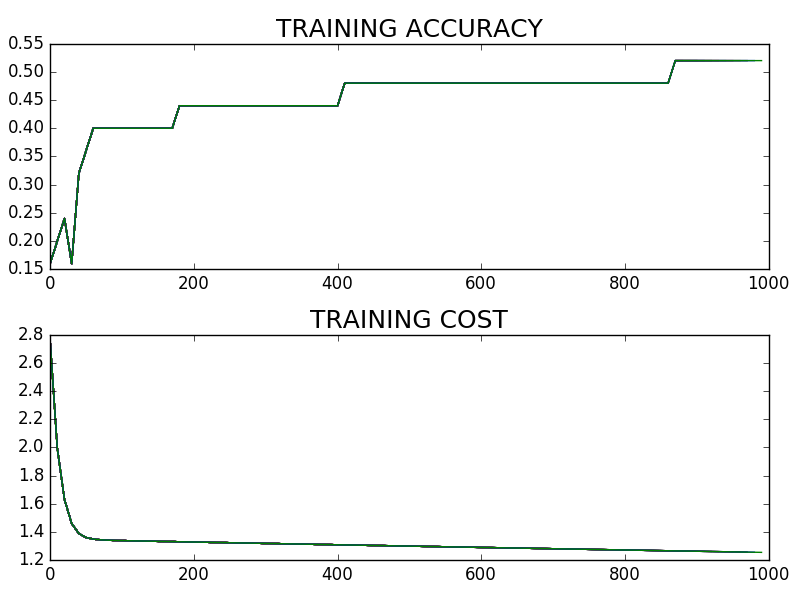
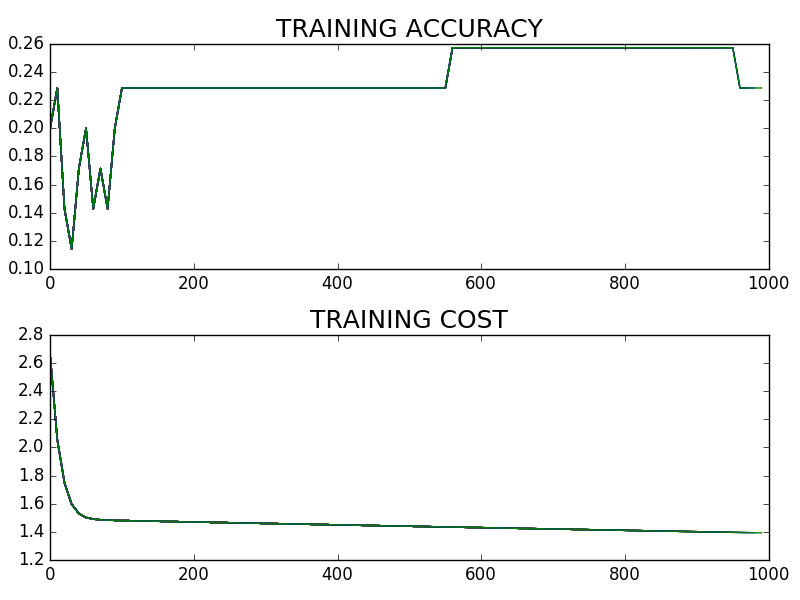
acc:28.5 trainAcc:22.8

diff --git a/tensorflow/new_build.py b/tensorflow/new_build.py
@@ -21,7 +21,8 @@ class DocReader():
         stop = stopwords.words("english")
         # regex = re.compile("\w+")
         for filePath in filePaths:
-            print filePath
+            # print filePath
+            print '.',
             with open(filePath) as f:
                 raw = f.read().lower()
                 # raw = re.sub(regex,'',raw)
@@ -31,6 +32,7 @@ class DocReader():
                 for token in tokens:
                     if not token in stop:
                         bagOfWords.append(token)
+        print '100%'
         print len(set(bagOfWords))
         return bagOfWords
 
@@ -177,7 +179,7 @@ if __name__ == '__main__':
                                                   internalDir=internalDir,
                                                   restrictedDir=restrictedDir,
                                                   highlyRestrictedDir=highlyRestrictedDir,
-                                                  percentTest=.5,
+                                                  percentTest=.3,
                                                   cutoff=0)
 
     print(trainX.shape)

diff --git a/tensorflow/predict.py b/tensorflow/predict.py
@@ -151,3 +151,6 @@ if __name__ == "__main__":
         print("regression predicts %s to be %s and is actually %s" %(str(i + 1), labelToString(prediction[i]), labelToString(testY[i])))
     print("overall accuracy of dataset: %s percent" %str(evaluation))
 
+
+
+
